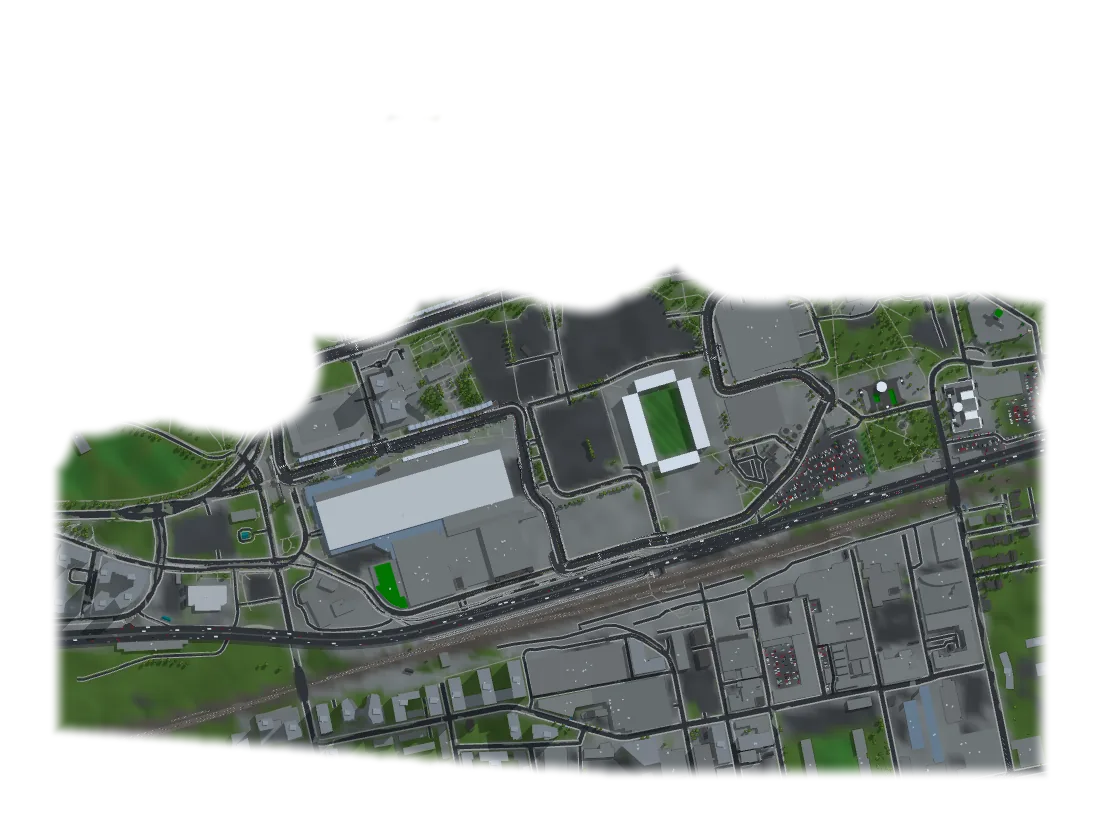
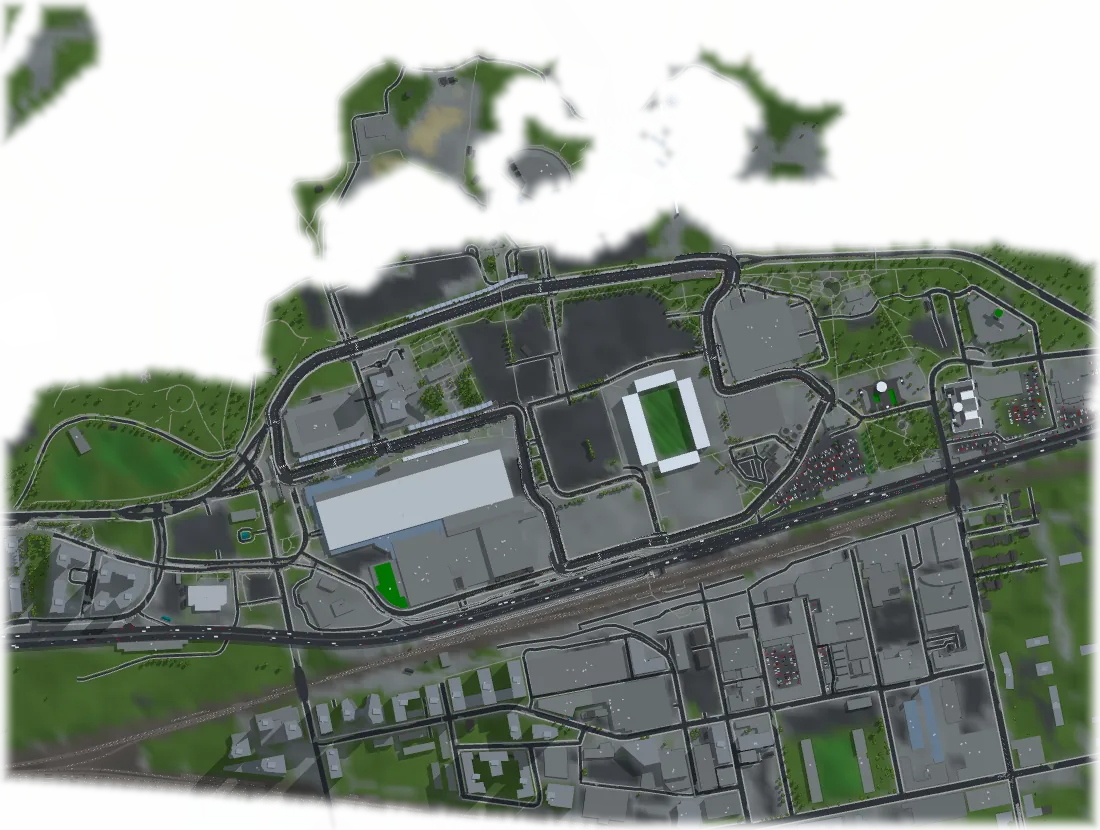
Skupina 3: voda Montréala in Toronta na zemljevidih in v preletu
- routemap keepWide (true ali imena): reka sv. Lovrenca (mtWater) in jezero Ontario ostaneta,
  oddaljeno mesto (mtFar) ne; wide_map: WATER_OUT in tanek rob (RING_PX) za ozke otoke

Claude-Session: https://claude.ai/code/session_01WbgGztjBcWLVHukegkrYrE

diff --git a/maketa-menija/orodja/routemap_page.js b/maketa-menija/orodja/routemap_page.js
@@ -58,9 +58,10 @@ window.RM = (function () {
     // land round the island is the made-up skirt (top) or the real land painted by wide_map.py (isle)
     let x0 = 1e9, x1 = -1e9, z0 = 1e9, z1 = -1e9; for (let i = 0; i < T.N; i++) { x0 = Math.min(x0, T.px[i]); x1 = Math.max(x1, T.px[i]); z0 = Math.min(z0, T.pz[i]); z1 = Math.max(z1, T.pz[i]); }
     const wide = Math.max(6000, 1.6 * Math.max(x1 - x0, z1 - z0) + 2000), hid = [], bb = new THREE.Box3(), sz = new THREE.Vector3();
-    // (opt.keepWide: a lake or river whose plane is the water of the map itself, e.g. Toronto's lake by the circuit: kept, the wide map
-    // takes the painted water outside the island's own (wide_map.py WATER_OUT))
-    if (!(opt && opt.keepWide)) sc.traverse(o => { if (!(o.isMesh || o.isInstancedMesh) || !o.visible) return; bb.setFromObject(o).getSize(sz); if (Math.max(sz.x, sz.z) > wide) hid.push(o); });
+    // (opt.keepWide: a lake or river whose plane is the water of the map itself, e.g. Toronto's lake by the circuit: kept (true: all of
+    // them; a list: those by name), the wide map takes the painted water outside the island's own (wide_map.py WATER_OUT))
+    const keep = o => !!(opt && opt.keepWide) && (opt.keepWide === true || opt.keepWide.includes(o.name));
+    sc.traverse(o => { if (!(o.isMesh || o.isInstancedMesh) || !o.visible || keep(o)) return; bb.setFromObject(o).getSize(sz); if (Math.max(sz.x, sz.z) > wide) hid.push(o); });
     hid.forEach(o => { o.visible = false; }); if (hid.length) console.log('far backdrop left out: ' + hid.map(o => (o.name || o.type) + ' ' + Math.round(new THREE.Box3().setFromObject(o).getSize(sz).x)).join(', '));
     B = { id, def, T, sc, w, tex, open: T.finishS > T.startS };
     return B;

diff --git a/maketa-menija/orodja/wide_map.py b/maketa-menija/orodja/wide_map.py
@@ -27,8 +27,8 @@ EXT = {824: 300, 1100: 240}   # the margin round the tile, in tile pixels, by th
 SHADOW_K = 0.4   # how dark the sun's cast shadows are painted (the game's island has only its own; a mountain's long shadow would not fit it)
 FEATHER = 18.0  # the island's soft edge: from opaque to clear over this many tile pixels
 RING_M = 150.0  # the made-up rim of ground-only cells round the island's trees, in metres: cut off before the soft edge starts
-RING_PX = {'monaco': 8, 'riviera': 18}   # (where the island is a whole town to the tile's edge: only a thin rim)
-WATER_OUT = {'monaco', 'riviera', 'toronto'}   # (the game's sea or lake is a plane far wider than the harbour: the painted land's own water is used)
+RING_PX = {'monaco': 8, 'riviera': 18, 'montreal': 6, 'toronto': 8}   # (where the island is a whole town to the tile's edge, or narrow land between water: only a thin rim)
+WATER_OUT = {'monaco', 'riviera', 'toronto', 'montreal'}   # (the game's sea or lake is a plane far wider than the harbour: the painted land's own water is used)
 THEME = {'vrsic': 'vrsic', 'pikes': 'pikes', 'ouninpohja': 'ouni', 'nring': 'nring', 'spa': 'spa', 'rbring': 'rbring', 'suzuka': 'suzuka', 'monaco': 'monaco', 'riviera': 'city'}
 # the sun of each theme (routemap_page.js: THEMES sunOff, default [-80, 96, 70]; x east, y up, z south), its strength and the sky light
 SUN = {'ouni': ([-88, 72, 58], 1.18, 0.56), 'vrsic': ([-84, 70, 56], 1.16, 0.58), 'pikes': ([104, 48, -60], 1.58, 0.75), 'nring': ([-80, 76, 70], 1.1, 0.6),
